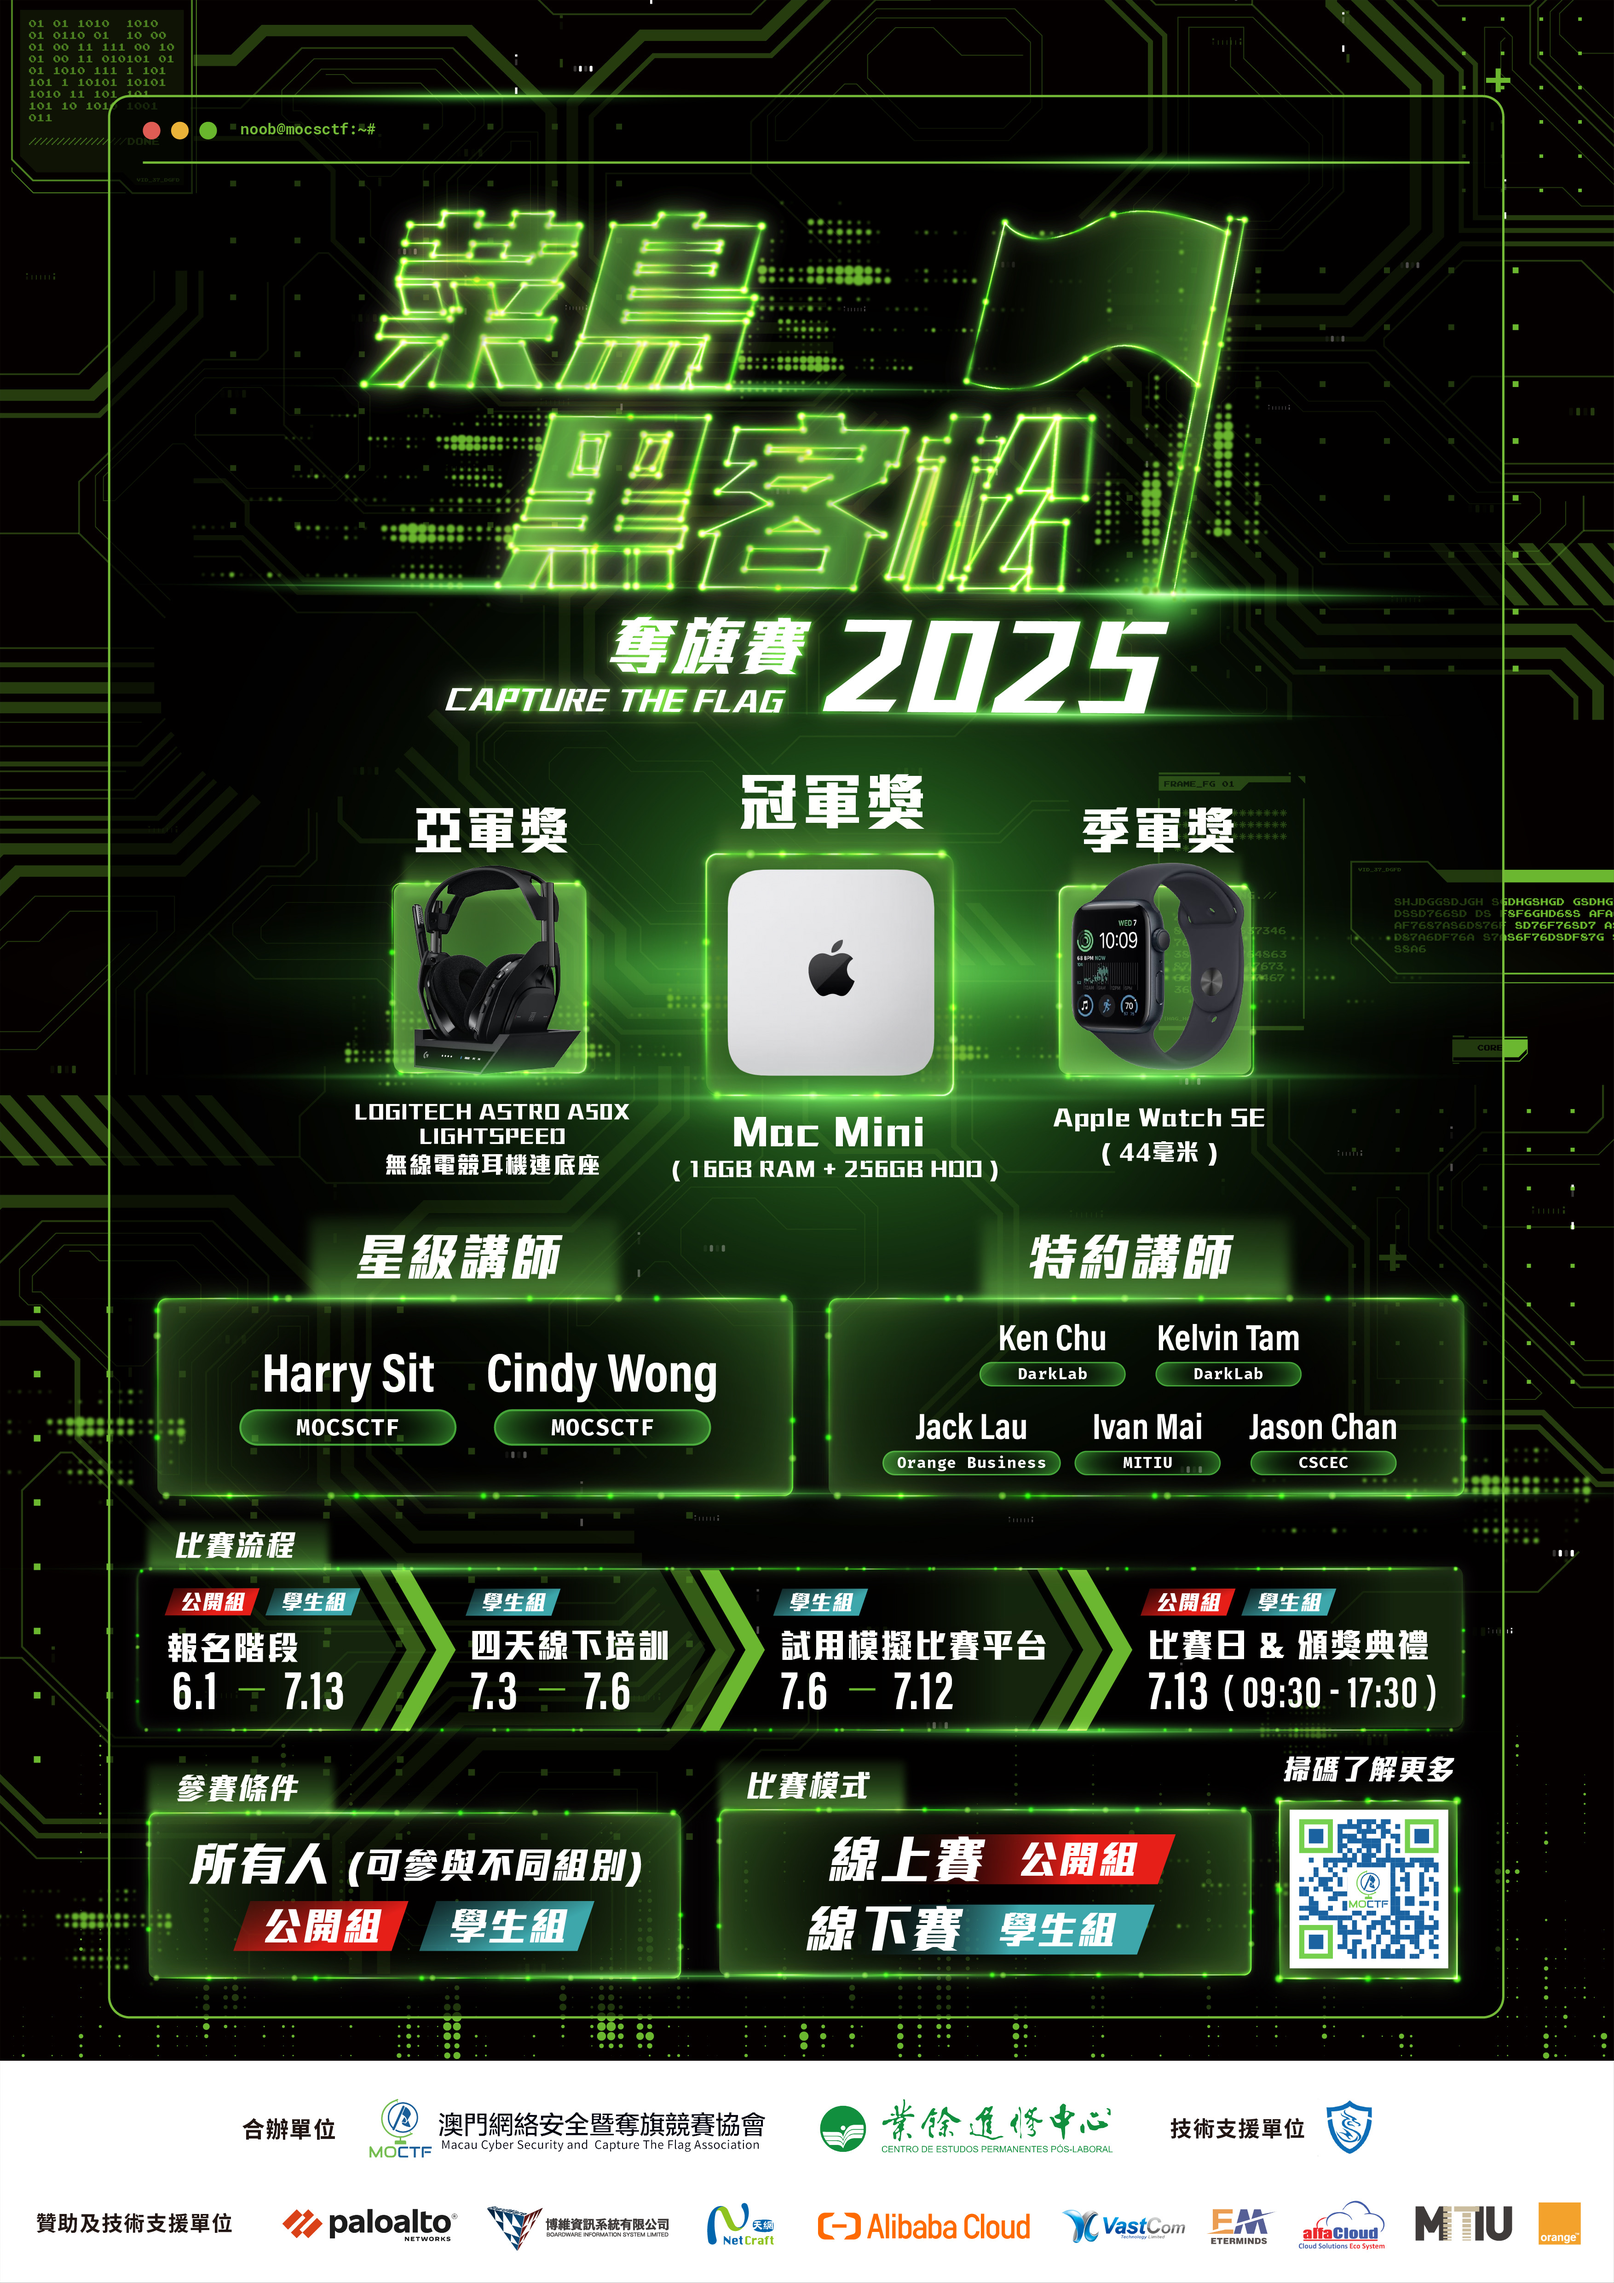
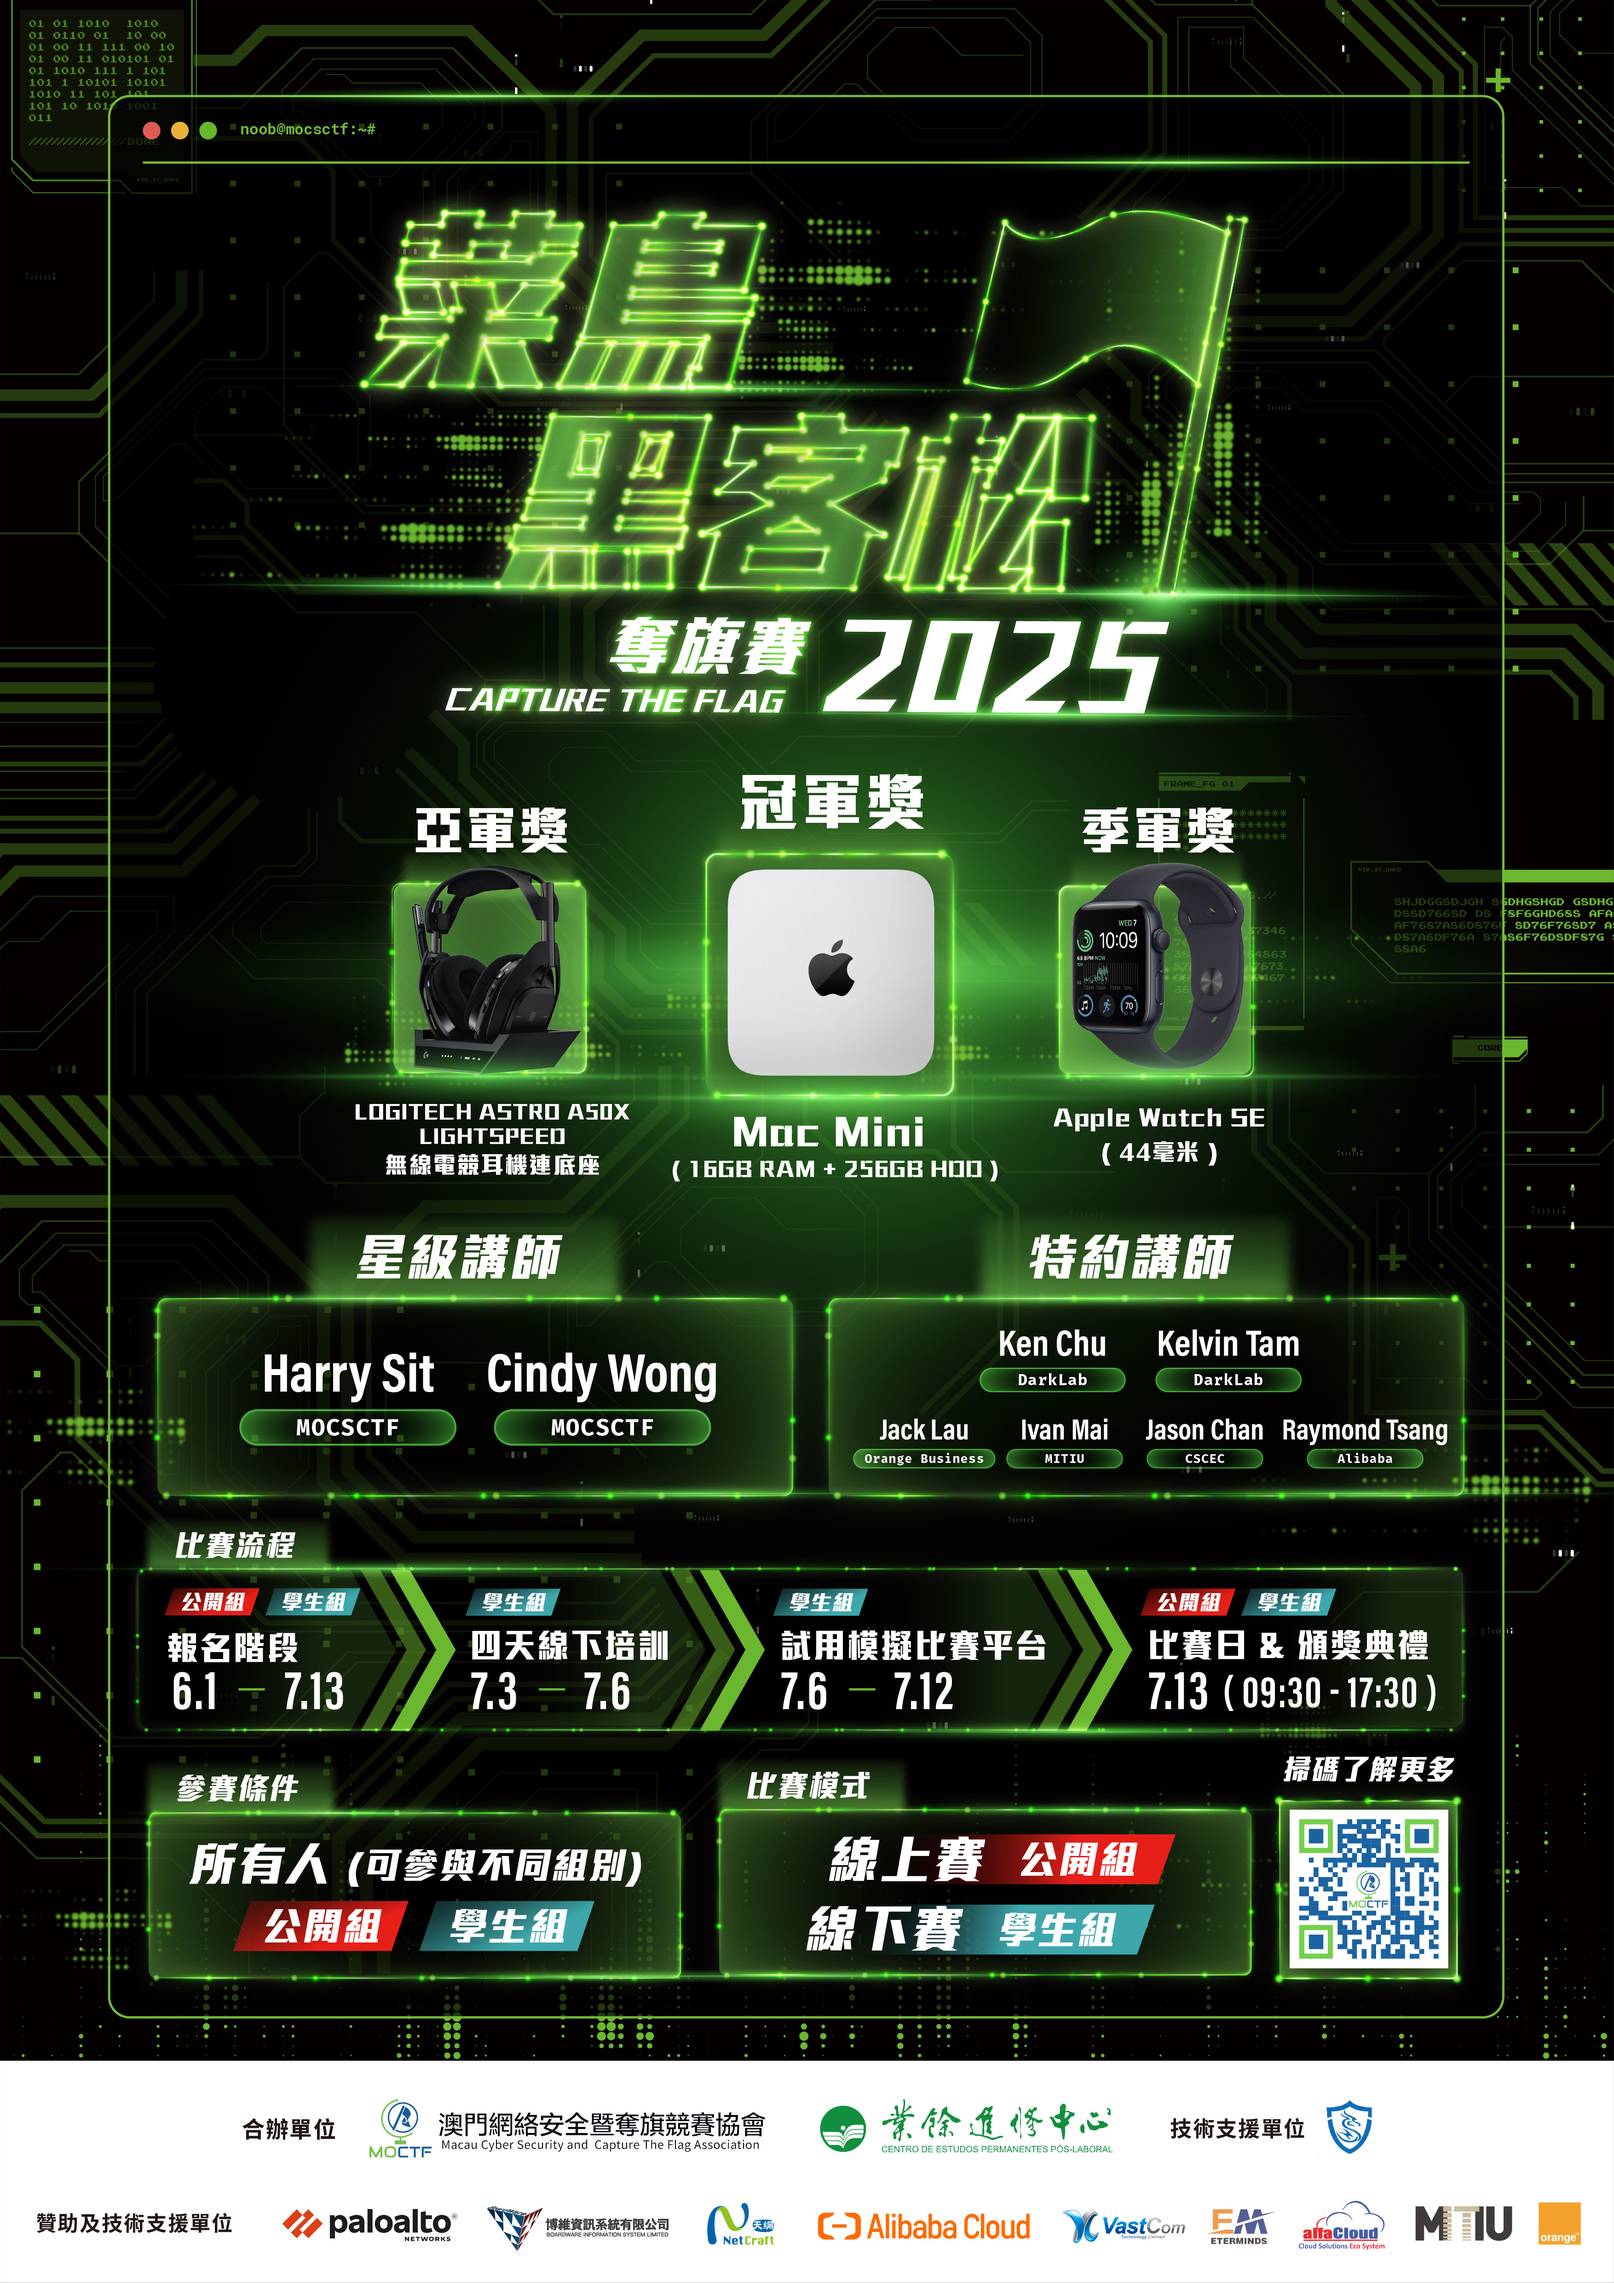
update mocsctf2025 event

Changed region(s): [[0.5282, 0.5624, 0.9011, 0.6561]]

diff --git a/static/js/events.js b/static/js/events.js
@@ -537,7 +537,7 @@ const events = [
                 星級講師：Harry Sit @ MOCSCTF、Cindy Wong @ MOCSCTF
                 <br><br>
                 特約講師：Ken Chu @ DarkLab、Kelvin Tam @ DarkLab
-                <br>Jack Lau @ Orange Business、Ivan Mai @ MITIU、Jason Chan @ CSCEC
+                <br>Jack Lau @ Orange Business、Ivan Mai @ MITIU、Jason Chan @ CSCEC、Raymond Tsang @ Alibaba
                 </p>
 
                 <h3>👉報名連結</h3>
